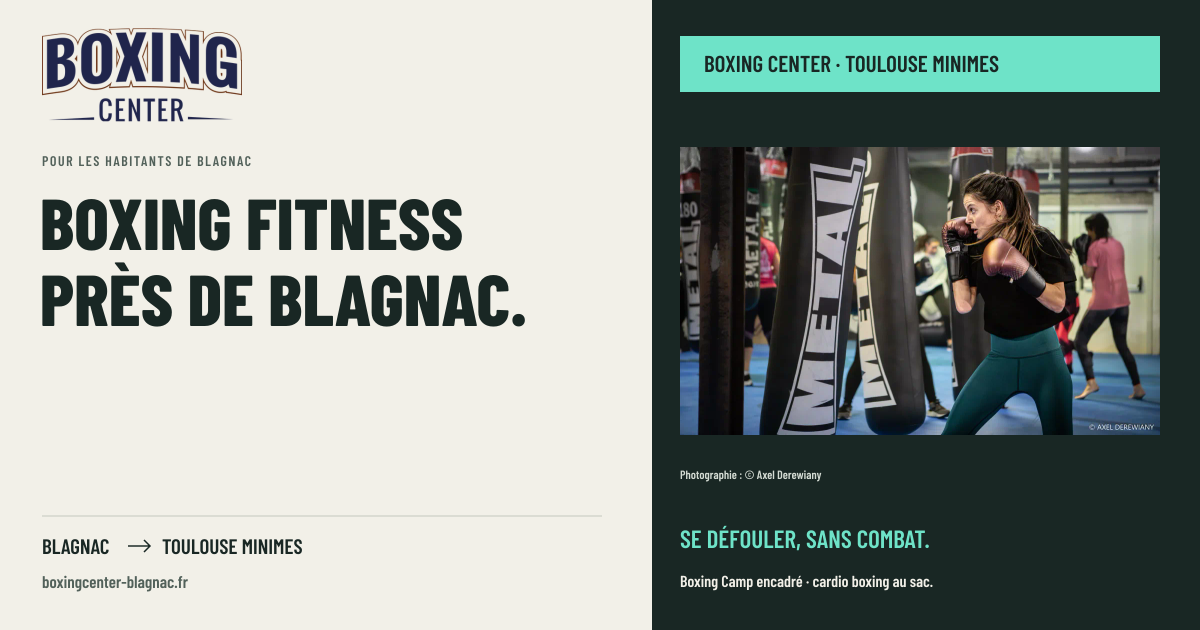
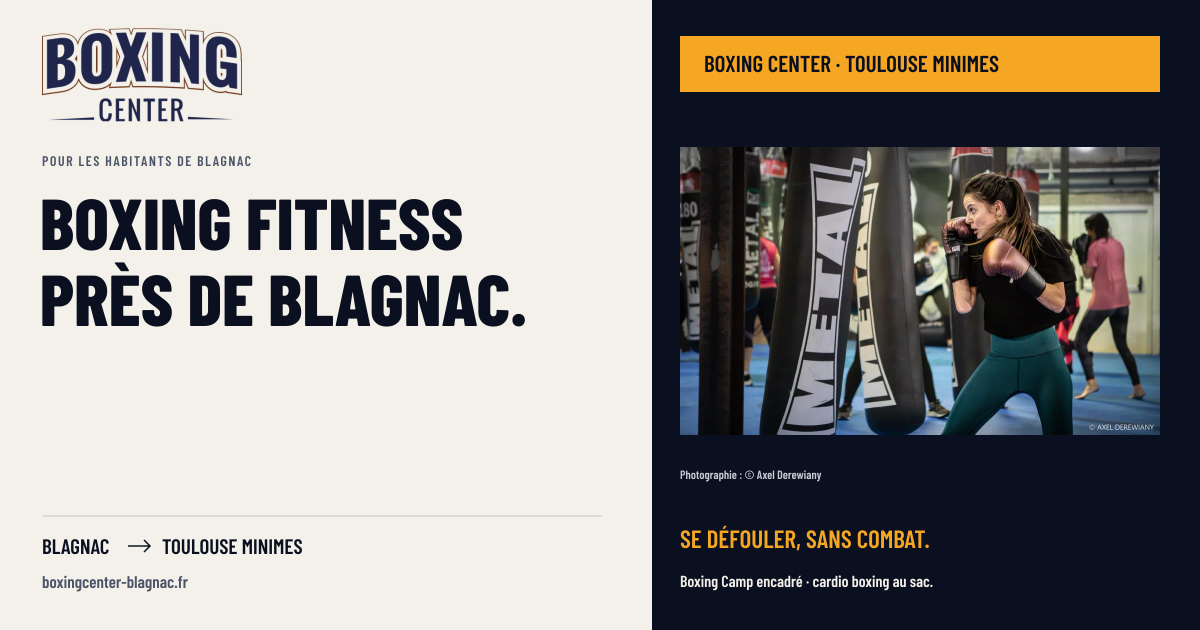
Make the Minimes palette the default
Eddy's decision of 5 October 2026: navy #0a1020 and gold #f5a623 become
the site's default colours. The Blagnac palette (paper, green ink, mint)
stays available from the footer switch, remembered per browser. Favicon
set and the fourteen share cards are regenerated in the Minimes palette;
the last hard-coded colours are now tokens. Share cards, the privacy
title and the 404 page move to tutoiement like the rest of the site.

Claude-Session: https://claude.ai/code/session_01QwePz5V5Vu63dHrumGQaug

Changed region(s): [[0.555, 0.0302, 0.9867, 0.1508], [0.555, 0.8444, 0.7708, 0.8746]]

diff --git a/src/styles/global.css b/src/styles/global.css
@@ -10,9 +10,9 @@
   button { cursor: pointer; }
 }
 @layer base {
-  :root { --paper: #f2f0e8; --ink: #192724; --muted: #52615a; --mint: #6ee3c8; --deep: #143e34; --line: #c3c8bd; --accent-text: #26785e; --accent-dot: #288461; --accent-focus: #196954; --accent-soft: #b7efdc; --accent-glow: #6ee3c840; --on-dark-muted: #cad5c9; --on-dark-dim: #6e7f72; --on-dark-line: #526159; --on-dark-soft: #b6c9bd; --on-dark-text: #bdccbf; --tint: #dfe4da; --ink-shadow: #19272430; --footer-link-line: #78968b; --ticket-rule: #87958c; --display: 'Barlow Condensed', 'Arial Narrow', sans-serif; --body: 'Manrope Variable', Arial, sans-serif; --pad: clamp(22px, 4.5vw, 88px); }
-  /* Variante à l'essai, décidée par Eddy en regardant : l'accent des Minimes (encre marine du réseau, or du club). Activée par le bouton du pied de page, mémorisée dans le navigateur. */
-  :root[data-theme="minimes"] { --paper: #f4f1ea; --ink: #0a1020; --muted: #4b5468; --mint: #f5a623; --deep: #111a30; --line: #cbc7bd; --accent-text: #a66500; --accent-dot: #c07a00; --accent-focus: #7d4f0a; --accent-soft: #fbd48a; --accent-glow: #f5a62340; --on-dark-muted: #c9ccd6; --on-dark-dim: #6b7390; --on-dark-line: #2a3350; --on-dark-soft: #b9bfd1; --on-dark-text: #c3c8d8; --tint: #e9e4d8; --ink-shadow: #0a102030; --footer-link-line: #7c86a8; --ticket-rule: #8c93a8; }
+  :root { --paper: #f4f1ea; --ink: #0a1020; --muted: #4b5468; --mint: #f5a623; --deep: #111a30; --line: #cbc7bd; --accent-text: #a66500; --accent-dot: #c07a00; --accent-focus: #7d4f0a; --accent-soft: #fbd48a; --accent-glow: #f5a62340; --on-dark-muted: #c9ccd6; --on-dark-dim: #6b7390; --on-dark-line: #2a3350; --on-dark-soft: #b9bfd1; --on-dark-text: #c3c8d8; --tint: #e9e4d8; --ink-shadow: #0a102030; --footer-link-line: #7c86a8; --ticket-rule: #8c93a8; --display: 'Barlow Condensed', 'Arial Narrow', sans-serif; --body: 'Manrope Variable', Arial, sans-serif; --pad: clamp(22px, 4.5vw, 88px); }
+  /* Palette par défaut : celle des Minimes (encre marine du réseau, or du club), choisie par Eddy le 5 octobre 2026. La palette Blagnac (papier, encre verte, menthe) reste disponible par le bouton du pied de page, mémorisée dans le navigateur. */
+  :root[data-theme="blagnac"] { --paper: #f2f0e8; --ink: #192724; --muted: #52615a; --mint: #6ee3c8; --deep: #143e34; --line: #c3c8bd; --accent-text: #26785e; --accent-dot: #288461; --accent-focus: #196954; --accent-soft: #b7efdc; --accent-glow: #6ee3c840; --on-dark-muted: #cad5c9; --on-dark-dim: #6e7f72; --on-dark-line: #526159; --on-dark-soft: #b6c9bd; --on-dark-text: #bdccbf; --tint: #dfe4da; --ink-shadow: #19272430; --footer-link-line: #78968b; --ticket-rule: #87958c; }
   html { scroll-behavior: smooth; scroll-padding-top: 125px; }
   body { background: var(--paper); color: var(--ink); font: 500 15px/1.65 var(--body); overflow-wrap: break-word; }
   ::selection { color: var(--ink); background: var(--mint); }
@@ -130,7 +130,7 @@
   .hero-description { margin: 28px 0 22px; font-size: 14px; line-height: 1.75; max-width: 385px; }
   .hero-note { margin-top: 16px; font-size: 11px; color: var(--muted); }
   .hero-actions { display: flex; flex-wrap: wrap; align-items: center; gap: 18px 30px; }
-  .page-facts.home-facts { grid-template-columns: repeat(4,1fr); border-top: 1px solid #19272420; }
+  .page-facts.home-facts { grid-template-columns: repeat(4,1fr); border-top: 1px solid var(--ink-shadow); }
   .page-facts.home-facts dd { font-size: 23px; }
   .secondary-link { margin-top: 22px; }
   .page-action-links { display: flex; flex-wrap: wrap; align-items: center; gap: 18px 30px; }
@@ -142,7 +142,7 @@
   .hero-main-photo { height: 450px; transform: rotate(2deg); animation: photo-arrive .85s cubic-bezier(.16,.8,.23,1) both; }
   .hero-main-photo img { height: 100%; object-position: 56% center; }
   .hero-main-photo figcaption { transform: rotate(-2deg); font-size: 10px; padding-top: 4px; text-align: right; }
-  .hero-stamp { position: absolute; top: 0; right: 22px; display: flex; flex-direction: column; gap: 2px; align-items: center; width: 220px; padding: 16px 12px; background: var(--mint); color: var(--ink); transform: rotate(-7deg); z-index: 3; border: 1px solid var(--ink); box-shadow: 3px 4px 0 #192724; }
+  .hero-stamp { position: absolute; top: 0; right: 22px; display: flex; flex-direction: column; gap: 2px; align-items: center; width: 220px; padding: 16px 12px; background: var(--mint); color: var(--ink); transform: rotate(-7deg); z-index: 3; border: 1px solid var(--ink); box-shadow: 3px 4px 0 var(--ink); }
   .hero-stamp { animation: stamp-arrive .65s .22s cubic-bezier(.2,.8,.2,1) both; }
   @keyframes photo-arrive { from { clip-path: inset(0 100% 0 0); transform: rotate(0); } to { clip-path: inset(0); transform: rotate(2deg); } }
   @keyframes stamp-arrive { from { opacity: 0; transform: translateY(-12px) rotate(-12deg); } to { opacity: 1; transform: translateY(0) rotate(-7deg); } }
@@ -378,7 +378,7 @@
     body:has(.mobile-menu[open]) { overflow: hidden; }
     body:has(.mobile-menu[open]) > main, body:has(.mobile-menu[open]) > .site-footer { filter: blur(7px); pointer-events: none; }
     body:has(.mobile-menu[open]) .club-prompt { display: none; }
-    body:has(.mobile-menu[open]) .menu-backdrop { display: block; position: fixed; inset: 0; z-index: 40; background: #19272440; cursor: pointer; }
+    body:has(.mobile-menu[open]) .menu-backdrop { display: block; position: fixed; inset: 0; z-index: 40; background: var(--ink-shadow); cursor: pointer; }
     .hero-topline { display: block; }
     .hero-coordinate { display: none; }
     .hero-main-photo { height: 370px; }

diff --git a/src/scripts/site.ts b/src/scripts/site.ts
@@ -136,18 +136,18 @@ if (route) {
   }
 }
 
-/* ---- La variante de couleurs à l'essai : un choix, mémorisé dans le navigateur ---- */
+/* ---- La palette : Minimes par défaut, Blagnac en alternative, mémorisée dans le navigateur ---- */
 const choices = document.querySelectorAll<HTMLButtonElement>('[data-theme-choice]');
 if (choices.length) {
   const themeColor = document.querySelector<HTMLMetaElement>('meta[name="theme-color"]');
   const apply = (theme: string) => {
-    if (theme === 'minimes') document.documentElement.dataset.theme = 'minimes'; else delete document.documentElement.dataset.theme;
-    if (themeColor) themeColor.content = theme === 'minimes' ? '#0a1020' : '#192724';
+    if (theme === 'blagnac') document.documentElement.dataset.theme = 'blagnac'; else delete document.documentElement.dataset.theme;
+    if (themeColor) themeColor.content = theme === 'blagnac' ? '#192724' : '#0a1020';
     choices.forEach(button => button.setAttribute('aria-pressed', String(button.dataset.themeChoice === theme)));
     try { localStorage.setItem('bc-theme', theme); } catch { /* stockage indisponible */ }
   };
-  let current = 'blagnac';
-  try { current = localStorage.getItem('bc-theme') === 'minimes' ? 'minimes' : 'blagnac'; } catch { /* idem */ }
+  let current = 'minimes';
+  try { current = localStorage.getItem('bc-theme') === 'blagnac' ? 'blagnac' : 'minimes'; } catch { /* idem */ }
   choices.forEach(button => button.setAttribute('aria-pressed', String(button.dataset.themeChoice === current)));
-  choices.forEach(button => button.addEventListener('click', () => apply(button.dataset.themeChoice || 'blagnac')));
+  choices.forEach(button => button.addEventListener('click', () => apply(button.dataset.themeChoice || 'minimes')));
 }

diff --git a/docs/HANDOFF.md b/docs/HANDOFF.md
@@ -16,7 +16,7 @@ Le niveau attendu est celui des autres sites d'Eddy : boxe-toulouse.com (Minimes
 
 1. Les liens vers les sites des clubs ouvrent un **nouvel onglet** (voulu). Les liens internes restent dans l'onglet.
 2. Les **quinze requêtes du brief** doivent apparaître telles quelles sur leur page et dans son titre ; le build le vérifie (`src/data/search-intents.mjs`, `scripts/audit-build.mjs`). Prudence : jamais « situé à Blagnac », « notre salle à Blagnac », aucune adresse à Blagnac, aucune fiche Google Business à Blagnac.
-3. **Palette** : papier / encre / menthe, conservée (Eddy la juge bonne, la menthe renvoie à Blagnac). La règle de famille : un satellite porte la couleur de la ville de départ, pas celle du club de destination. Un **toggle** avec un accent dérivé des Minimes est fourni pour qu'Eddy décide en regardant ; voir §5.
+3. **Palette** : depuis le 5 octobre 2026, la palette **Minimes est celle par défaut** (encre marine `#0a1020`, or `#f5a623`, papier `#f4f1ea`, texte d'accent `#a66500`), décision d'Eddy. La palette Blagnac (papier, encre verte, menthe) reste disponible par le bouton « Couleurs » du pied de page (`data-theme="blagnac"`, mémorisé dans `localStorage` sous `bc-theme`). Icônes et vignettes sont générées dans la palette Minimes.
 4. **Tutoiement** sur tout le site (sauf mentions légales). Respectueux, concret, jamais ado.
 5. **Navigation d'en-tête vers les pages de ce site** ; seul le CTA « Réserver mon essai » est externe.
 6. **Phrase « le club n'est pas dans Blagnac même »** : gardée, une fois, sur la page club (brief §7), nulle part ailleurs.
@@ -71,10 +71,19 @@ Attend une action d'Eddy :
 2. Fusionner `claude/eager-fermat-zt2vah` dans `main` pour mettre à jour la production.
 3. Raccorder le domaine boxingcenter-blagnac.fr (DNS A observé : 213.186.33.5, parking OVH), puis ajouter la redirection `*.vercel.app` → domaine dans `vercel.json`, vérifier Search Console (propriété Domaine, TXT DNS), soumettre le sitemap, lancer `npm run indexnow -- --submit`.
 4. Fusionner les branches `claude/lien-blagnac` des dépôts Minimes et États-Unis une fois le domaine en ligne.
-5. Trancher la variante de couleurs (bouton du pied de page), puis retirer la bascule ; si « Minimes » est retenue, régénérer icônes et vignettes.
+5. Palette : Minimes par défaut (fait le 5 octobre). Dire s'il faut retirer le bouton « Couleurs » du pied de page ou le garder.
 6. Décision MMA avec son responsable (Minimes n'enseigne pas le MMA ; le site oriente vers États-Unis).
 
 ## 6. Journal des chantiers (du plus récent au plus ancien)
+
+### 5 octobre 2026 — palette Minimes par défaut
+
+- `src/styles/global.css` : le bloc `:root` porte désormais les valeurs Minimes ; l'ancien défaut devient `:root[data-theme="blagnac"]`. Les trois couleurs restées en dur (bordure des repères, voile du menu, ombre du tampon) sont passées en jetons.
+- `src/layouts/Base.astro` : `theme-color` `#0a1020` ; le script inline du `<head>` applique Blagnac seulement si `localStorage.bc-theme === 'blagnac'` ; bouton « Minimes » en premier et actif.
+- `src/scripts/site.ts` : logique de bascule inversée (défaut Minimes).
+- `scripts/favicons.mjs` et `scripts/generate-social.mjs` : couleurs Minimes ; icônes et quatorze vignettes régénérées.
+- Voix : vignettes, titre de la page Confidentialité et page 404 passés au tutoiement (restes de l'ancienne voix).
+- Vérifié : build vert ; Playwright confirme `--ink #0a1020`, `--mint #f5a623`, `theme-color #0a1020` par défaut sur bureau et mobile, bascule vers Blagnac conservée sur la page suivante puis retour à Minimes, console vide ; rendu de l'accueil, de l'icône et de la vignette d'accueil contrôlé.
 
 ### 4 octobre 2026, soir — liens entrants depuis les sites Minimes et États-Unis
 

diff --git a/README.md b/README.md
@@ -2,7 +2,7 @@
 
 Site vitrine pour les habitants de Blagnac, orienté vers **Boxing Center Toulouse Minimes**. Le lieu d’entraînement présenté est à Toulouse, au 12 rue de Fenouillet. Le site n’invente pas une salle à Blagnac.
 
-Direction originale : papier chaud, encre et menthe, typographie condensée, photographies réelles et fiche de départ interactive. Le visiteur choisit une pratique et ses disponibilités personnelles, reçoit un conseil de préparation, puis rejoint les informations officielles du club. La fiche ne réserve aucun créneau et n’envoie aucune donnée.
+Direction originale : palette Minimes par défaut (encre marine, or, papier chaud ; palette Blagnac papier, encre et menthe disponible en pied de page), typographie condensée, photographies réelles et fiche de départ interactive. Le visiteur choisit une pratique et ses disponibilités personnelles, reçoit un conseil de préparation, puis rejoint les informations officielles du club. La fiche ne réserve aucun créneau et n’envoie aucune donnée.
 
 ## Développement
 
